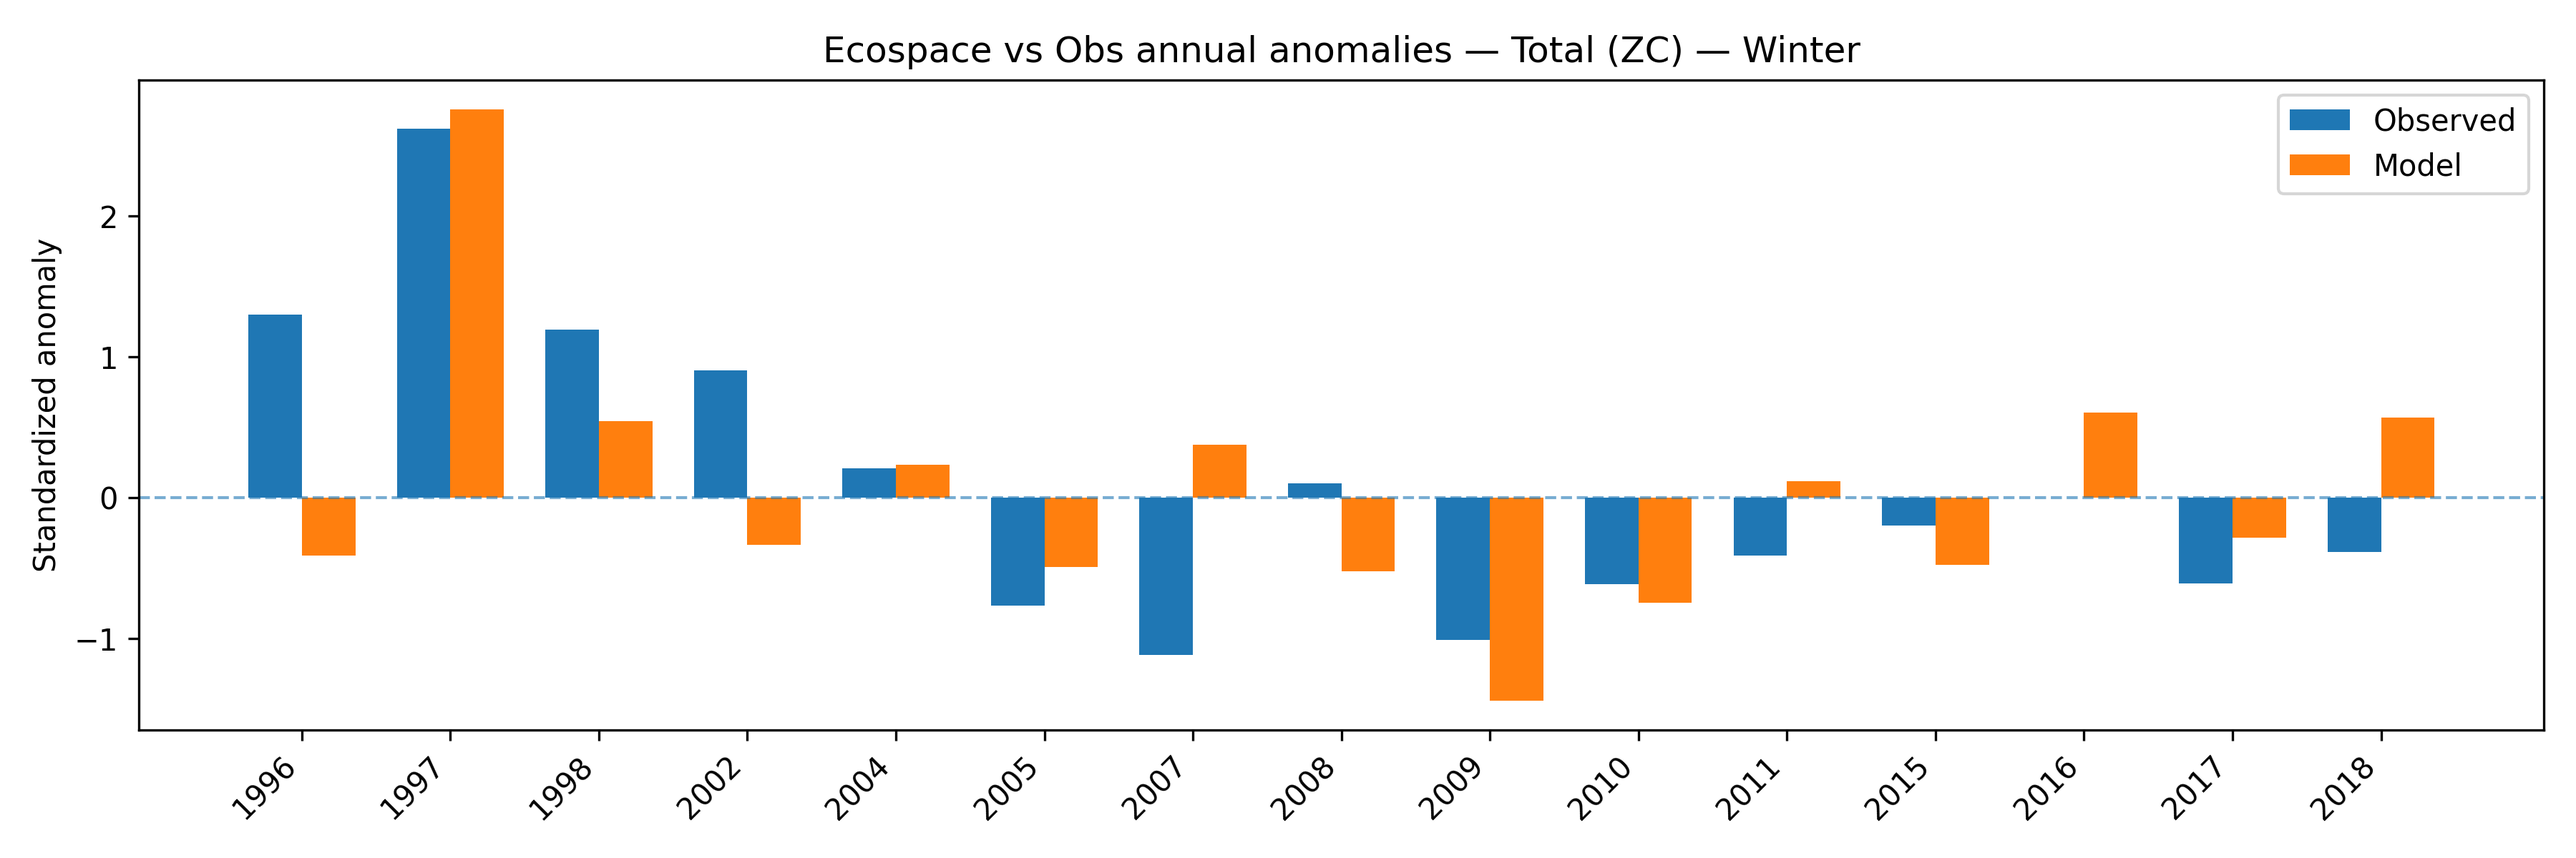
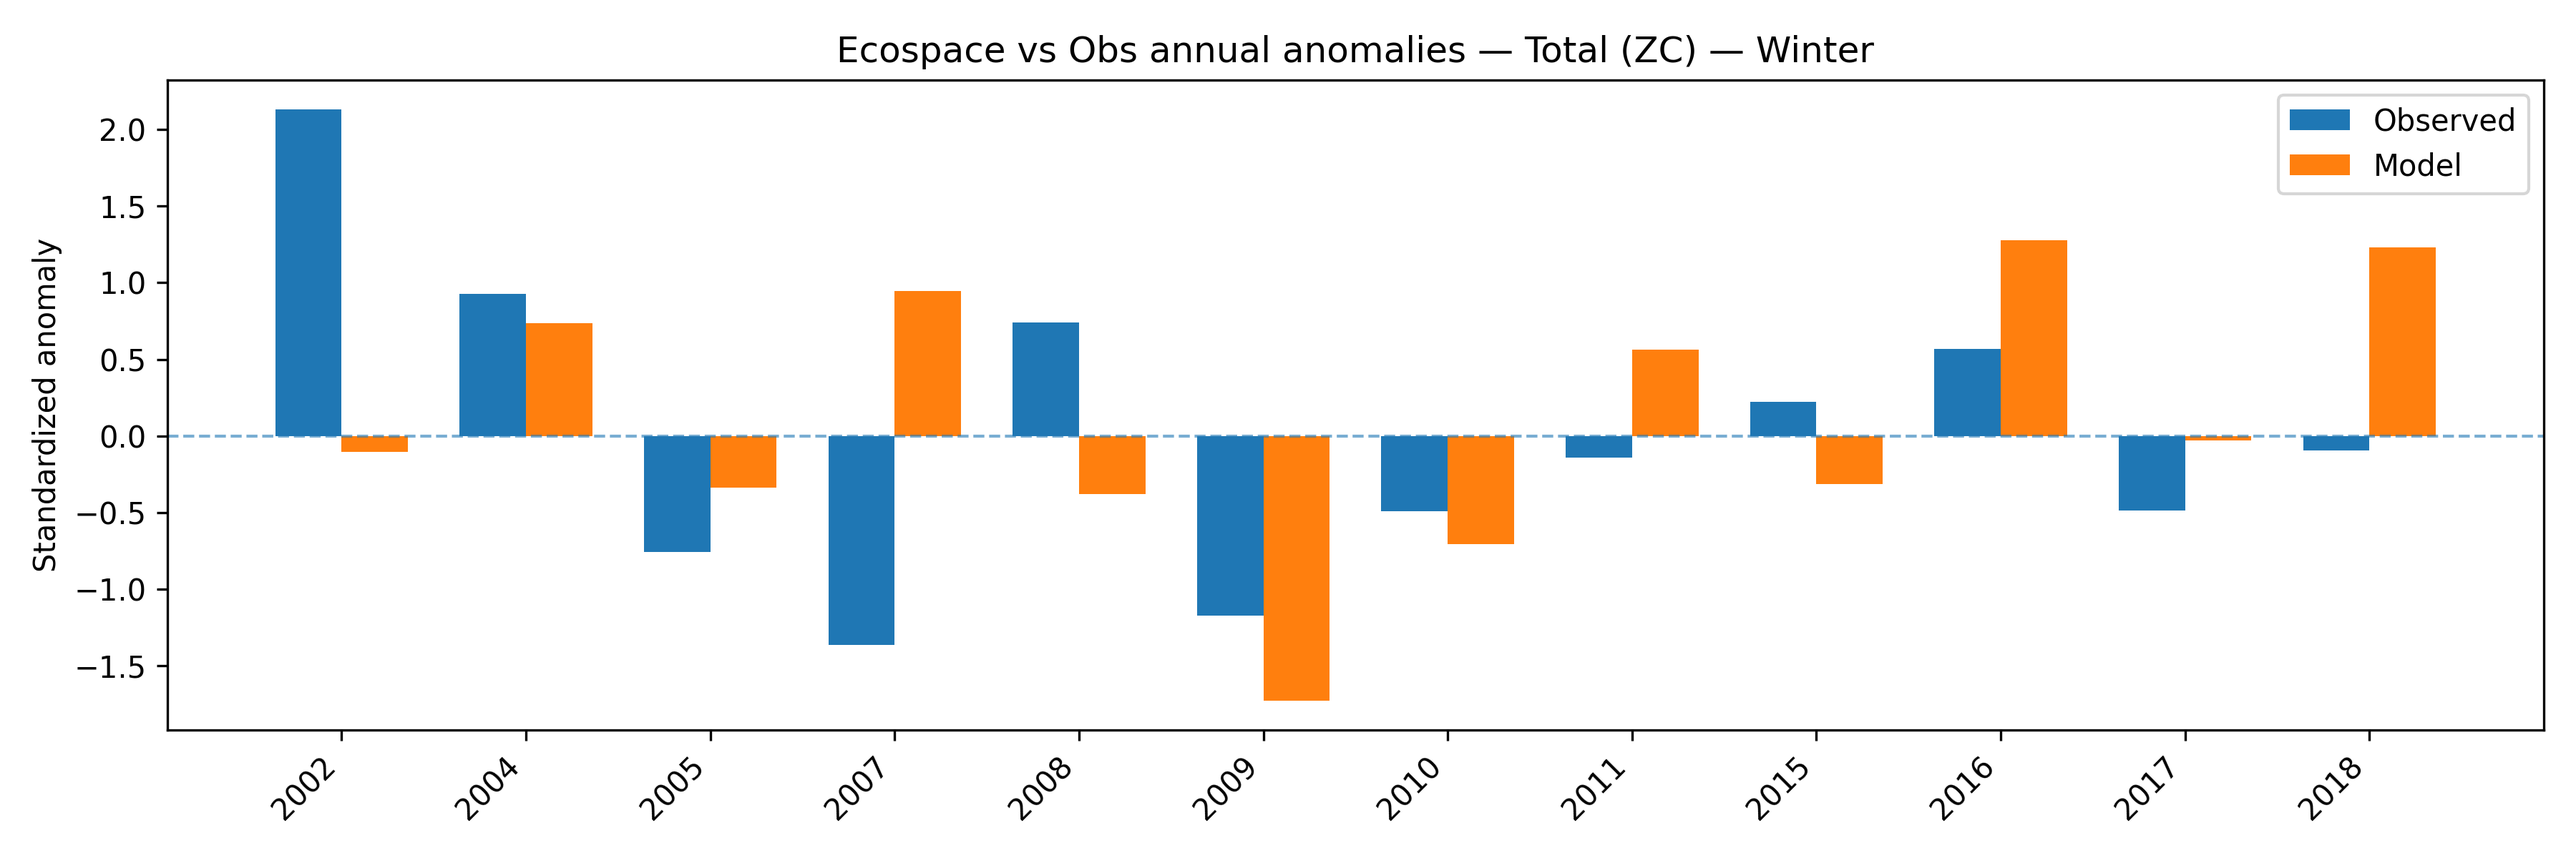
figs

diff --git a/scripts/PublicationScripts/ecospace_eval_5_zoop_eval.py b/scripts/PublicationScripts/ecospace_eval_5_zoop_eval.py
@@ -769,7 +769,7 @@ def plot_pub_panel_total_single_season(
     # -----------------------------
     fig, axes = plt.subplots(
         2, 1,
-        figsize=(8.5, 9.0),
+        figsize=(5.3, 8),
         gridspec_kw={"height_ratios": [1.0, 1.15]},
         constrained_layout=False,
     )
@@ -865,11 +865,15 @@ def plot_pub_panel_total_single_season(
         ha="left", va="top",
         fontsize=12, fontweight="bold"
     )
+
+
     # =========================================================
     # BOTTOM PANEL: annual anomaly bars
     # =========================================================
     years = sorted(annual["year"].unique().tolist())
-    w = 0.38
+    pair_step = 1.18  # spacing between years
+    w = 0.28  # bar width
+    x = np.arange(len(years)) * pair_step
 
     if len(years) > 0:
         d_idx = annual.set_index("year")
@@ -878,14 +882,15 @@ def plot_pub_panel_total_single_season(
         y_mod = [d_idx.loc[yr, "model_anom"] if yr in d_idx.index else np.nan for yr in years]
 
         ax_bar.axhline(0, lw=1, linestyle="--", alpha=0.7, color="k", zorder=1)
-        ax_bar.bar(x - w/2, y_obs, width=w, label="Observations", zorder=2)
-        ax_bar.bar(x + w/2, y_mod, width=w, label="SOGEM-LTL", zorder=2)
+        ax_bar.bar(x - w / 2, y_obs, w, label="Observations", color="darkorange", zorder=2)
+        ax_bar.bar(x + w / 2, y_mod, w, label="SOGEM-LTL", color="blue", zorder=2)
 
         ax_bar.set_xticks(x)
         ax_bar.set_xticklabels([str(y) for y in years], rotation=45, ha="right")
         ax_bar.set_ylabel("Anomaly (z-score)")
         ax_bar.set_xlabel("Year")
         ax_bar.set_title(f"{season}: annual anomalies")
+
         ax_bar.grid(True, alpha=0.3, zorder=0)
         ax_bar.legend()
 
@@ -1560,7 +1565,9 @@ def plot_anomaly_panel_paired(
 
     annual_idx = annual.set_index(["group", "year"])
     x = np.arange(len(years))
-    w = 0.35
+    pair_step = 1.18  # spacing between years
+    w = 0.28  # bar width
+    x = np.arange(len(years)) * pair_step
 
     for i, grp in enumerate(plot_groups):
         ax = axes[i]
@@ -2031,7 +2038,10 @@ def plot_anomaly_bars_total_by_season(
 
     fig, axes = plt.subplots(2, 2, figsize=(14, 9), sharey=True)
     axes = axes.flatten()
-    w = 0.36
+
+    pair_step = 1.18  # spacing between years
+    w = 0.28  # bar width
+
 
     # choose a common y-range across seasons
     vals = []
@@ -2051,6 +2061,8 @@ def plot_anomaly_bars_total_by_season(
         ax = axes[i]
         d = season_data[season]
         years = sorted(d["year"].unique().tolist())
+
+        x = np.arange(len(years)) * pair_step
 
         if not years:
             ax.set_title(f"{season}  n=0")
